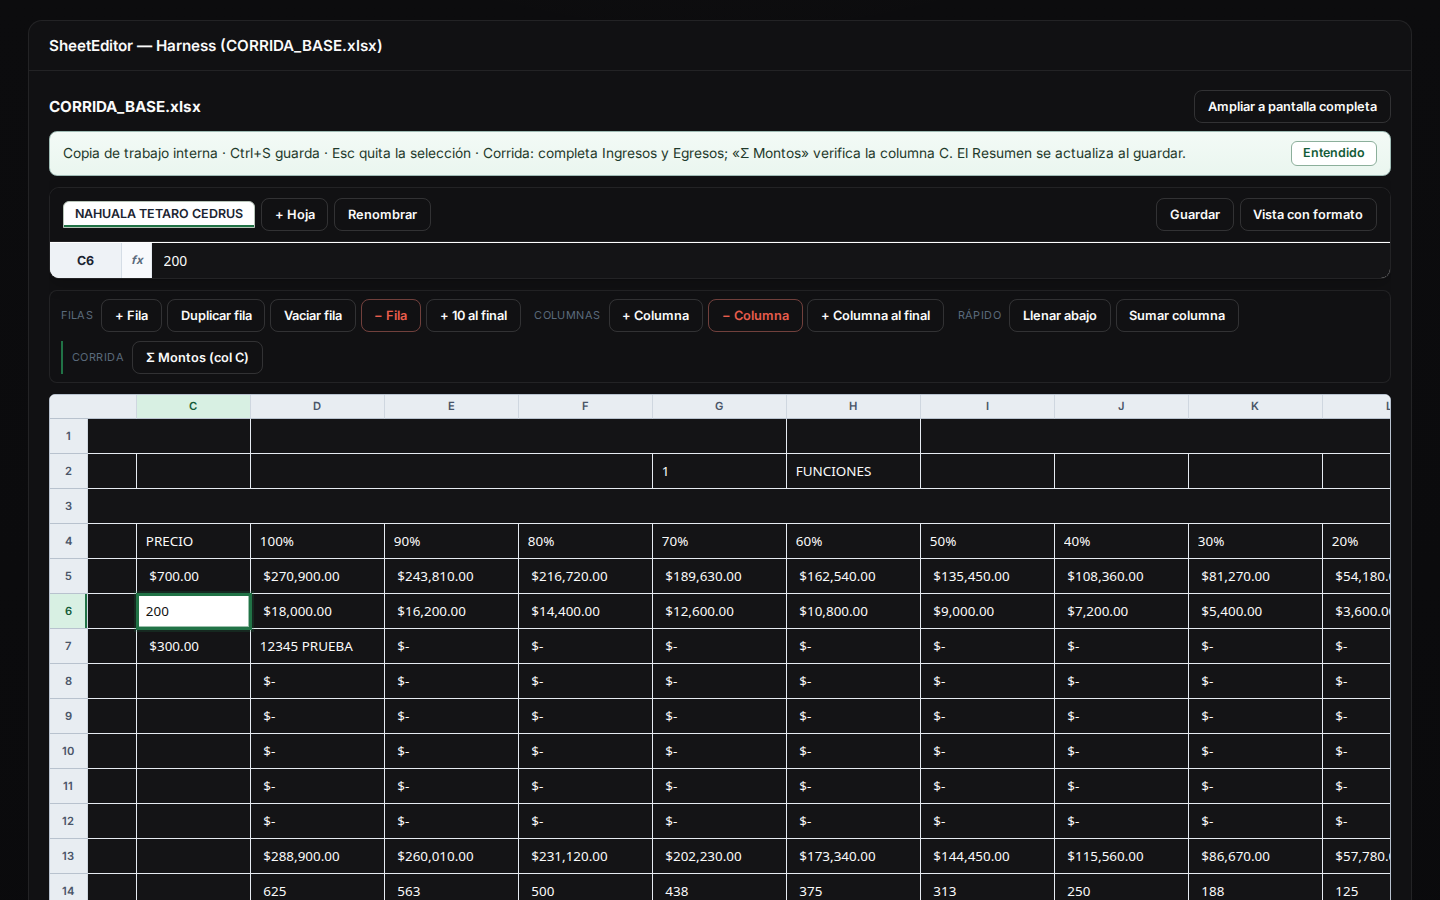
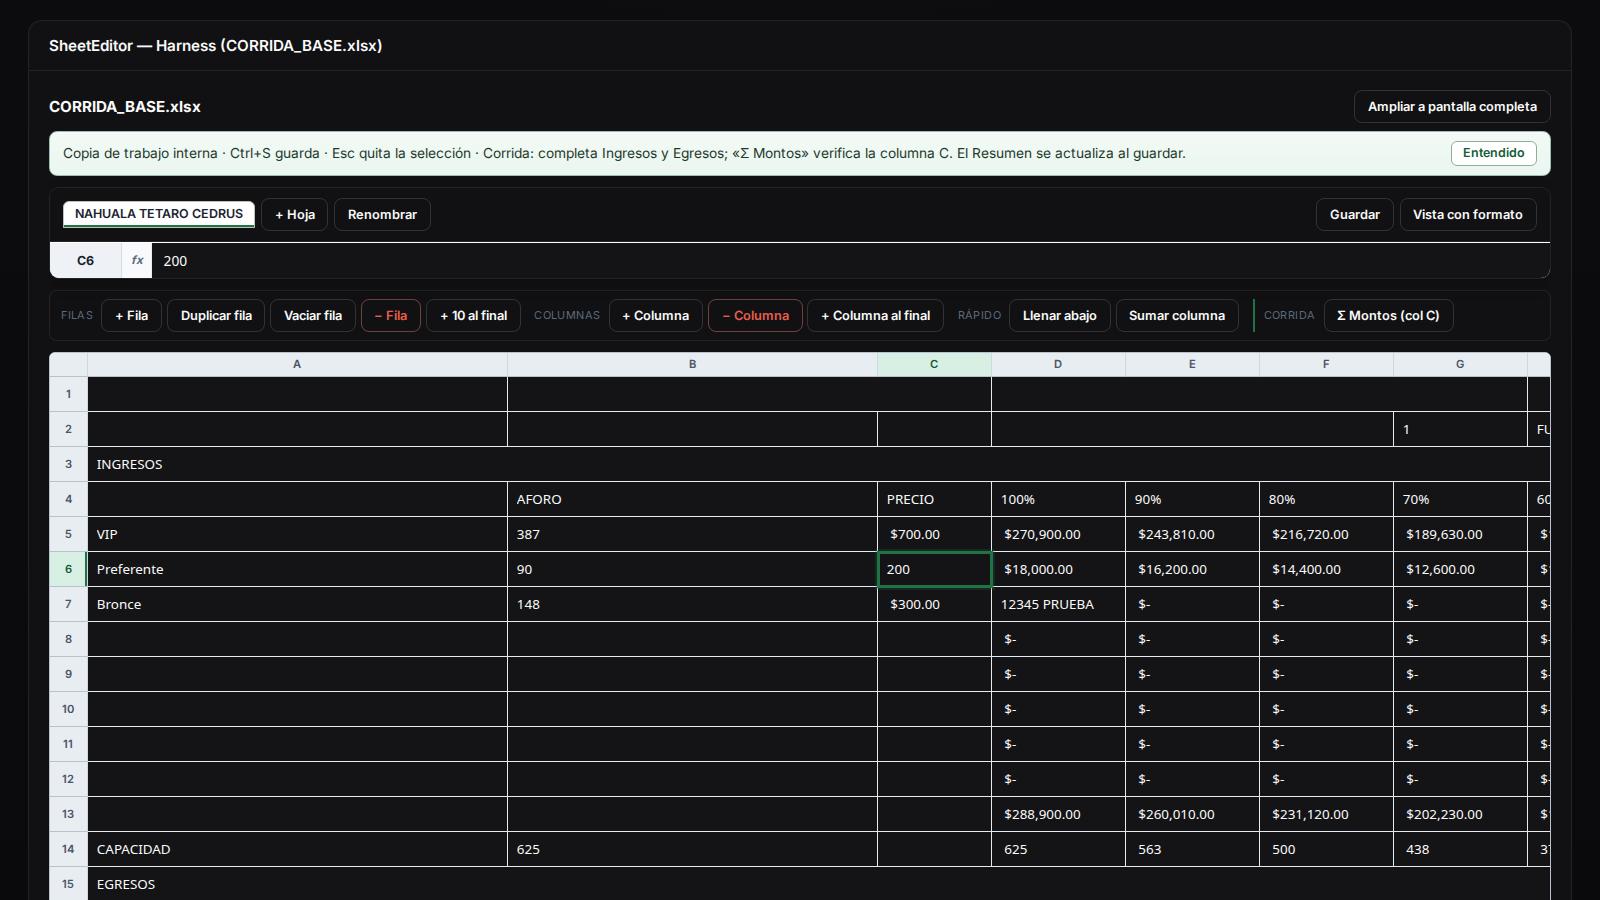
tests(e2e): retake campana/recalc screenshots with viewport=1600x900 and scrollLeft=0; verify no clipping and include key columns

diff --git a/apps/web/e2e/hotfix-sheet-editor.spec.ts b/apps/web/e2e/hotfix-sheet-editor.spec.ts
@@ -119,6 +119,14 @@ test.describe('SheetEditor hotfix — dark contrast and values', () => {
     await expect(page.locator('.sheet__cell[aria-label="Celda A7"]')).toHaveValue(/Bronce/);
     // No overlay elements must exist (evita fugas/solapamientos)
     await expect(page.locator('.sheet__display')).toHaveCount(0);
+    // Ensure A..G are visible: blur, scrollLeft=0, widen viewport, then capture
+    await page.evaluate(() => (document.activeElement as HTMLElement | null)?.blur());
+    await page.evaluate(() => {
+      const wrap = document.querySelector('.sheet-wrap') as HTMLElement | null;
+      if (wrap) wrap.scrollLeft = 0;
+    });
+    await page.setViewportSize({ width: 1600, height: 900 });
+    await page.waitForTimeout(60);
     await page.screenshot({ path: '../../docs/hotfix-screens/hotfix-recalc.png', fullPage: false });
 
     // Omitimos captura dedicada de toolbar; ya es visible en las demás tomas
@@ -167,7 +175,13 @@ test.describe('SheetEditor hotfix — dark contrast and values', () => {
     await page.getByRole('table').waitFor({ timeout: 15000 });
     await checkBright('.sheet__cell[aria-label="Celda A6"]');
     await checkBright('.sheet__cell[aria-label="Celda D6"]');
-    // Screenshot d)
+    // Make sure A..H are visible and capture
+    await page.evaluate(() => {
+      const wrap = document.querySelector('.sheet-wrap') as HTMLElement | null;
+      if (wrap) wrap.scrollLeft = 0;
+    });
+    await page.setViewportSize({ width: 1600, height: 900 });
+    await page.waitForTimeout(60);
     await page.screenshot({ path: '../../docs/hotfix-screens/hotfix-campana.png', fullPage: false });
 
     // Verificar que las PNG no estén en blanco (tiene píxeles distintos)
